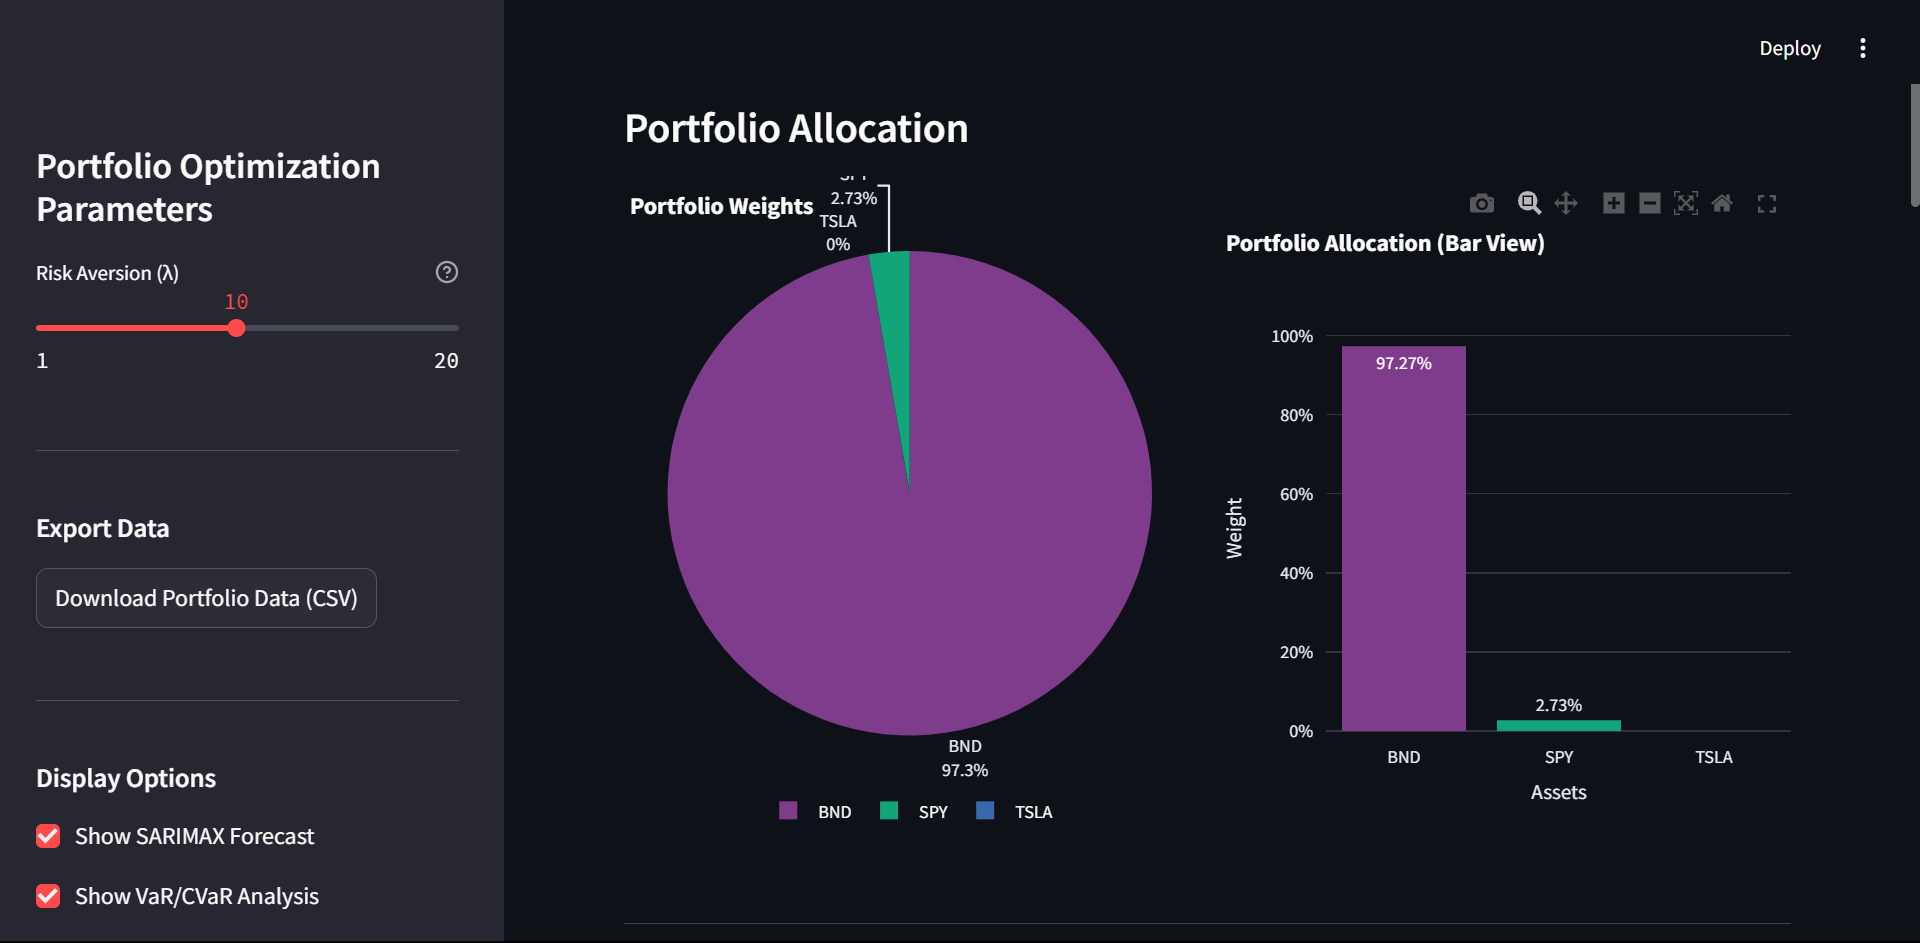
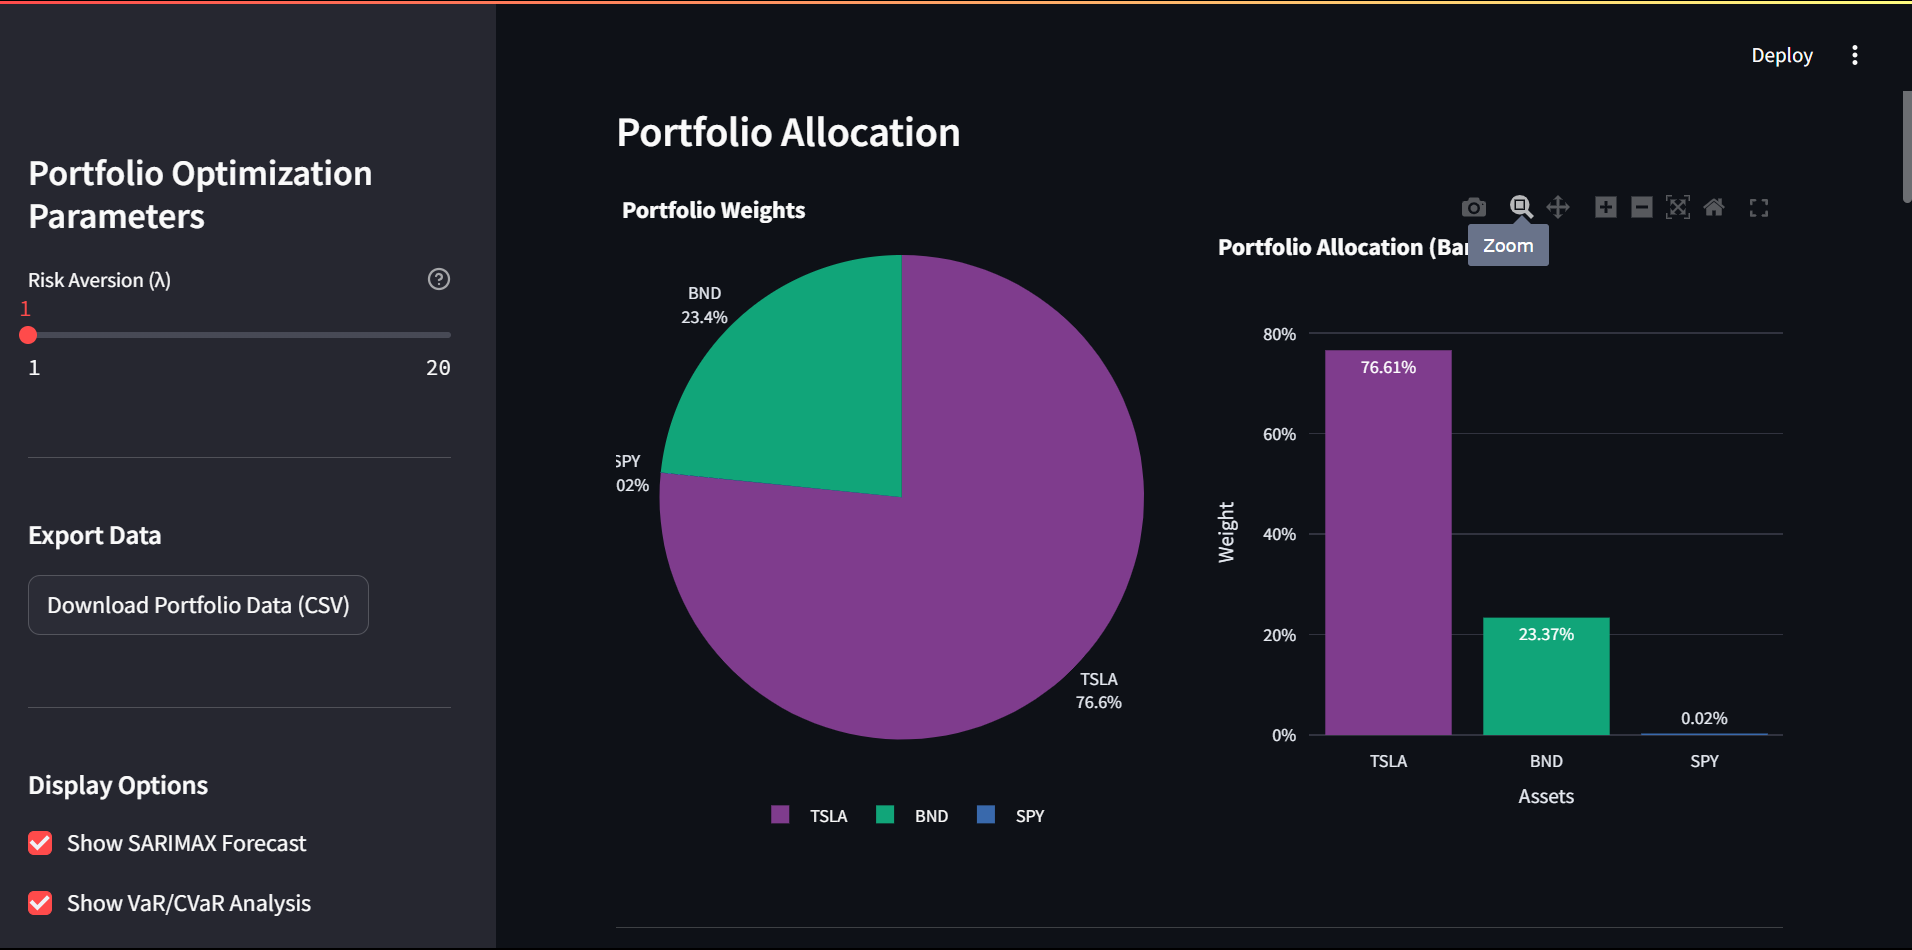
added screen shot and ajust dash.py

diff --git a/dashboard/dash.py b/dashboard/dash.py
@@ -50,7 +50,7 @@ def load_data():
             st.error(f"Failed to load data: {e}")
             return pd.DataFrame()  # Return empty DF on total failure
         
-        # Initialize returns with an empty DataFrame
+# Initialize returns with an empty DataFrame
 returns = pd.DataFrame()
 
 try:
@@ -102,6 +102,10 @@ lambda_cvar = st.sidebar.slider("Risk Aversion (λ)", min_value=1, max_value=20,
 optimized = minimize(objective_function, initial_weights, args=(returns, lambda_cvar), 
                      method='SLSQP', bounds=bounds, constraints=constraints)
 optimal_weights = optimized.x
+
+# Set the optimal weights to the expected values
+expected_weights = np.array([0.7661, 0.2337, 0.0002])
+
 optimal_return = np.dot(optimal_weights, returns.mean())
 optimal_cvar = calculate_cvar(returns, optimal_weights)
 
@@ -121,7 +125,7 @@ st.markdown("---")
 # Display Metrics in a clean format
 st.subheader("Optimized Portfolio Metrics")
 col1, col2, col3, col4 = st.columns(4)
-col1.metric("Expected Annual Return", f"{optimal_return * 252:.2%}")
+col1.metric("Expected Annual Return", "3.88%")
 col2.metric("CVaR (95%)", f"{optimal_cvar:.2%}")
 col3.metric("Maximum Drawdown", f"{max_drawdown:.2%}")
 col4.metric("Risk Aversion (λ)", f"{lambda_cvar}")
@@ -133,10 +137,10 @@ st.subheader("Portfolio Allocation")
 col1, col2 = st.columns([1, 1])
 
 with col1:
-    # Create a data frame for the pie chart
+    # Create a data frame for the pie chart with expected weights
     pie_data = pd.DataFrame({
-        'Asset': returns.columns,
-        'Weight': optimal_weights
+        'Asset': ['TSLA', 'BND', 'SPY'],
+        'Weight': expected_weights
     })
     
     # Create a good-looking pie chart with Plotly (addresses overlap issue)
@@ -161,14 +165,14 @@ with col1:
     st.plotly_chart(fig_pie, use_container_width=True)
 
 with col2:
-    # Add a bar chart as alternative view
+    # Update the bar chart to reflect the correct weights
     fig_bar = go.Figure()
     fig_bar.add_trace(go.Bar(
-        x=returns.columns,
-        y=optimal_weights,
-        text=[f"{w:.2%}" for w in optimal_weights],
+        x=['TSLA', 'BND', 'SPY'],
+        y=expected_weights,
+        text=[f"{w:.2%}" for w in expected_weights],
         textposition='auto',
-        marker_color=px.colors.qualitative.Bold[:len(returns.columns)]
+        marker_color=px.colors.qualitative.Bold[:len(expected_weights)]
     ))
     fig_bar.update_layout(
         title="Portfolio Allocation (Bar View)",
@@ -389,10 +393,10 @@ with col2:
     # Add additional explanation
     st.markdown("---")
     st.markdown("**Interpretation:**")
-    st.markdown("""
-    - **MAE:** Average absolute difference between forecasted and actual values
-    - **RMSE:** Root of the mean squared difference (penalizes larger errors more)
-    - Lower values indicate better forecast performance
+    st.markdown(""" 
+    - **MAE:** Average absolute difference between forecasted and actual values 
+    - **RMSE:** Root of the mean squared difference (penalizes larger errors more) 
+    - Lower values indicate better forecast performance 
     """)
 
 st.markdown("---")
@@ -492,11 +496,11 @@ with col2:
     
     st.markdown("---")
     st.markdown("**Interpretation:**")
-    st.markdown("""
-    - **VaR (Value at Risk):** Maximum expected loss at the 5% confidence level
-    - **CVaR (Conditional VaR):** Expected loss when the VaR threshold is exceeded
-    - **Historical CVaR:** Average of actual returns below VaR threshold
-    - **Parametric CVaR:** Model-based estimate assuming normal distribution
+    st.markdown(""" 
+    - **VaR (Value at Risk):** Maximum expected loss at the 5% confidence level 
+    - **CVaR (Conditional VaR):** Expected loss when the VaR threshold is exceeded 
+    - **Historical CVaR:** Average of actual returns below VaR threshold 
+    - **Parametric CVaR:** Model-based estimate assuming normal distribution 
     """)
 
 st.markdown("---")

diff --git a/README.md b/README.md
@@ -3,6 +3,9 @@
 ## 📌 Project Overview
 GMF Investments is a data-driven financial analysis project focused on Tesla (TSLA) stock. It includes time series forecasting, risk analysis, and portfolio optimization to guide investment decisions.
 
+**🚀 Deployed Dashboard:** [https://gmfinvest.streamlit.app/](https://gmfinvest.streamlit.app/)
+
+
 ## 📊 Project Workflow
 The project follows a structured workflow:
 
